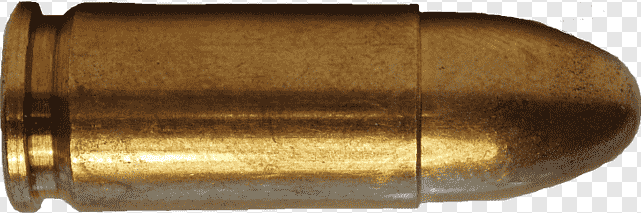
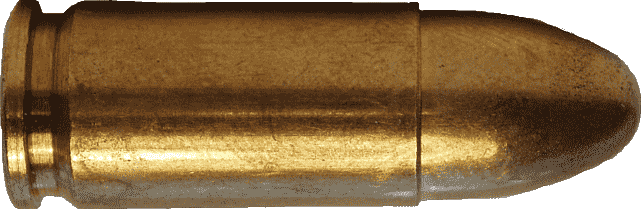
Object Rotation AND View Trarcking(temp)

diff --git a/My2dGame/src/my2dGame/View.java b/My2dGame/src/my2dGame/View.java
@@ -1,6 +1,8 @@
 package my2dGame;
 
 import java.awt.Graphics;
+import java.awt.Graphics2D;
+import java.awt.geom.AffineTransform;
 import java.awt.Image;
 import java.awt.Point;
 import java.awt.Color;
@@ -12,16 +14,16 @@ public class View extends JFrame implements Runnable{
 	Model model;
 	
 	private Image buffImg;
-    private Graphics buffG;
+    private Graphics2D buffG;
 	
 	private Vector position = new Vector(0, -100);
-	private double width = 1920;
-	private double height = 1080;
+	private double viewWidth = 1920;
+	private double viewHeight = 1080;
 	
 	private int resolutionWidth = 1600;
 	private int resolutionHeight = 900;
 	
-    public View(Model model){
+	public View(Model model){
         // 프레임의 대한 설정.
         setTitle("my2dGame"); // 프레임 제목 설정.
         setSize(resolutionWidth, resolutionHeight); // 프레임의 크기 설정.
@@ -34,7 +36,7 @@ public class View extends JFrame implements Runnable{
     @Override
     public void paint(Graphics g) {
     	buffImg = createImage(resolutionWidth, resolutionHeight);
-    	buffG = buffImg.getGraphics();
+    	buffG = (Graphics2D) buffImg.getGraphics();
     	update(g);
     }
     
@@ -47,7 +49,7 @@ public class View extends JFrame implements Runnable{
     	
     	buffG.drawString(Double.toString(model.getPlayer().getJetpackGauge()), 200, 200);
     	Vector start = worldCorToViewCor(new Vector(0, 0));
-    	Vector end = worldCorToViewCor(new Vector(width, 0));
+    	Vector end = worldCorToViewCor(new Vector(viewWidth, 0));
     	buffG.drawLine((int)start.getX(), (int)start.getY(), (int)end.getX(), (int)end.getY());
     	buffG.drawString(Integer.toString(model.getPlayer().getDashCount()), 100, 100);
     	
@@ -71,27 +73,18 @@ public class View extends JFrame implements Runnable{
 		}
 	}
 	
-	
-	public void setPosition(Vector position) {
-		this.position = position;
-	}
-	
-	public Vector getPosition() {
-		return this.position;
-	}
-	
 	public Vector worldCorToViewCor(Vector worldCor) {
 		Vector tmp = worldCor.sub(this.position);
-		return new Vector(tmp.getX() * (resolutionWidth/width), resolutionHeight - tmp.getY() * (resolutionHeight/height));
+		return new Vector(tmp.getX() * (resolutionWidth/viewWidth), resolutionHeight - tmp.getY() * (resolutionHeight/viewHeight));
 	}
 	
 	public Vector viewCorToWorldCor(Vector viewCor) {
-		double x = viewCor.getX() * (width/resolutionWidth);
-		double y = (-viewCor.getY() + resolutionHeight) * (height/resolutionHeight);
+		double x = viewCor.getX() * (viewWidth/resolutionWidth);
+		double y = (-viewCor.getY() + resolutionHeight) * (viewHeight/resolutionHeight);
 		return this.position.add(new Vector(x, y));
 	}
 	
-	public void drawPlayer(Graphics buffG) {
+	public void drawPlayer(Graphics2D buffG) {
 		int mouseX = this.getMousePosition().x;
 		int mouseY = this.getMousePosition().y;
 		Vector mouse_position = viewCorToWorldCor(new Vector(mouseX, mouseY));
@@ -107,24 +100,48 @@ public class View extends JFrame implements Runnable{
     	buffG.drawOval((int)view_cor.getX()-5, (int)view_cor.getY()-5, 10, 10);
 	}
 	
-	public void drawBullet(Graphics buffG) {
+	public void drawBullet(Graphics2D buffG) {
 		for(Bullet b : model.getBulletList()) {
 			drawObject(buffG, b);
 		}
 	}
 	
-	public void drawObject(Graphics buffG, VisiableObject obj) {
-		Vector position = obj.getPosition();
-		Image sprite = obj.getSprite(); 
-		double w = obj.getWidth();
-		double h = obj.getHeight();
-		Vector view_cor = worldCorToViewCor(position.sub(new Vector(w/2, -h/2)));
-		//System.out.println(view_cor);
-		buffG.drawImage(sprite, (int)view_cor.getX(), (int)view_cor.getY(), (int) (w*(resolutionWidth/width)), (int)(h*(resolutionHeight/height)), this);
-		//buffG.drawOval((int)worldCorToViewCor(position).getX()-5, (int)worldCorToViewCor(position).getY()-5, 10, 10);
-	}
+	public void drawObject(Graphics2D buffG, VisiableObject obj) {
+	      Vector position = obj.getPosition();
+	      Image sprite = obj.getSprite(); 
+	      double w = obj.getWidth();
+	      double h = obj.getHeight();
+	      Vector view_cor = worldCorToViewCor(position);
+	      
+	      AffineTransform trans = new AffineTransform();
+	      //======================= AffineTransform =======================
+	      trans.translate(view_cor.getX(), view_cor.getY());                                                                     //S3
+	      trans.translate(-w/2, -h/2);                                                                                           //S2
+	      trans.scale((w/sprite.getWidth(this))*(resolutionWidth/viewWidth), (h/sprite.getHeight(this))*(resolutionHeight/viewHeight));  //S1
+	      //============================================================
+	      
+	      buffG.drawImage(sprite, trans, this);
+	   }
 	
-	public void drawCrosshair(Graphics buffG) {
+	public void drawObject(Graphics2D buffG, Bullet obj) {
+	      Vector position = obj.getPosition();
+	      Image sprite = obj.getSprite(); 
+	      double w = obj.getWidth();
+	      double h = obj.getHeight();
+	      Vector view_cor = worldCorToViewCor(position);
+	      
+	      AffineTransform trans = new AffineTransform();
+	    //======================= AffineTransform =======================
+	      trans.translate(view_cor.getX(), view_cor.getY());                                                                     //S4
+	      trans.rotate(obj.getSpeed().getX(), -obj.getSpeed().getY());                                                           //S3
+	      trans.translate(-w/2, -h/2);                                                                                           //S2
+	      trans.scale((w/sprite.getWidth(this))*(resolutionWidth/viewWidth), (h/sprite.getHeight(this))*(resolutionHeight/viewHeight));  //S1
+	      //============================================================
+	      
+	      buffG.drawImage(sprite, trans, this);
+	   }
+	
+	public void drawCrosshair(Graphics2D buffG) {
 		int mouseX = this.getMousePosition().x;
 		int mouseY = this.getMousePosition().y;
 		Vector player_position = model.getPlayer().getPosition();
@@ -137,5 +154,45 @@ public class View extends JFrame implements Runnable{
 		buffG.drawLine(mouseX, mouseY + length, mouseX, mouseY - length);
 		buffG.drawLine(mouseX + length, mouseY, mouseX - length, mouseY);
 		buffG.setColor(Color.BLACK);
+	}
+
+	public void setPosition(Vector position) {
+		this.position = position;
+	}
+	
+	public Vector getPosition() {
+		return this.position;
+	}
+	
+	public double getViewWidth() {
+		return viewWidth;
+	}
+
+	public void setViewWidth(double viewWidth) {
+		this.viewWidth = viewWidth;
+	}
+
+	public double getViewHeight() {
+		return viewHeight;
+	}
+
+	public void setViewHeight(double viewHeight) {
+		this.viewHeight = viewHeight;
+	}
+
+	public int getResolutionWidth() {
+		return resolutionWidth;
+	}
+
+	public void setResolutionWidth(int resolutionWidth) {
+		this.resolutionWidth = resolutionWidth;
+	}
+
+	public int getResolutionHeight() {
+		return resolutionHeight;
+	}
+
+	public void setResolutionHeight(int resolutionHeight) {
+		this.resolutionHeight = resolutionHeight;
 	}
 }

diff --git a/My2dGame/src/my2dGame/Controller.java b/My2dGame/src/my2dGame/Controller.java
@@ -103,6 +103,7 @@ public class Controller implements KeyListener, MouseListener, Runnable{
 				for(Bullet b : model.getBulletList()) {
 					move(b);
 				}
+				view.setPosition(model.getPlayer().getPosition().sub(new Vector(view.getViewWidth()/2, view.getViewHeight()/2)));
 				System.out.println(model.getPlayer());
 				//System.out.println((int)(1000*dt));
 				Thread.sleep((int)(1000*dt));
@@ -146,7 +147,7 @@ public class Controller implements KeyListener, MouseListener, Runnable{
 				Vector viewCor = new Vector(mouseX, mouseY);
 				Vector worldCor = view.viewCorToWorldCor(viewCor);
 				model.getPlayer().addAcceleration(new Vector(0, g));
-				model.getPlayer().addAcceleration(worldCor.sub(model.getPlayer().getPosition()).unit().mul(350));
+				model.getPlayer().addAcceleration(worldCor.sub(model.getPlayer().getPosition()).unit().mul(1550));
 			}
 		}
 		if(!leftMouseClick) {

diff --git a/My2dGame/src/my2dGame/Bullet.java b/My2dGame/src/my2dGame/Bullet.java
@@ -9,7 +9,7 @@ public class Bullet extends VisiableObject {
 		this.setAcceleration(new Vector());
 		Toolkit imageTool = Toolkit.getDefaultToolkit();
 		this.setSprite(imageTool.getImage("res/img/bullet.png"));
-		this.setWidth(10);
-		this.setHeight(5);
+		this.setWidth(150);
+		this.setHeight(70);
 	}
 }
